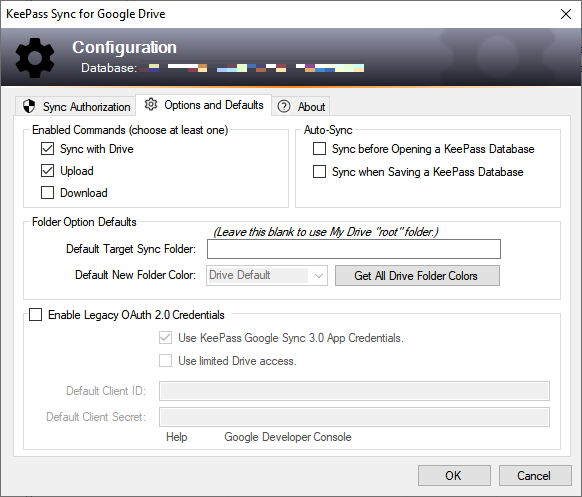
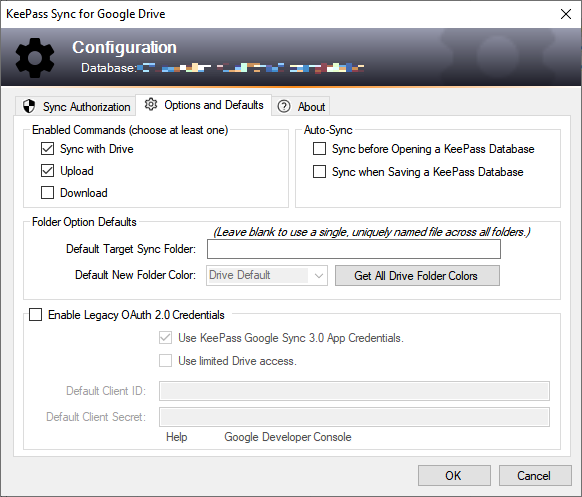
Updates for 4.0.3-beta

Changed region(s): [[0.433, 0.4527, 0.9278, 0.4829], [0.2165, 0.1207, 0.6495, 0.1509]]

diff --git a/docs/usage/target-folder.md b/docs/usage/target-folder.md
@@ -1,0 +1,90 @@
+---
+layout: page
+title: Target Folder
+---
+
+{:refdef: style="text-align: center;"}
+![Auto Sync Config](../assets/img/sync-folder.png)
+{: refdef}
+
+Sync your database with a file in a specific Drive folder.
+
+## What Happens
+* Specify a folder of your choice to contain the Drive file to sync with. 
+The folder may be [nested](#specifying-subfolders) in any other folder.
+* Or don't specify a Target Folder; if you leave this blank, the plugin
+looks for a *single* Drive file, among all folders, with the same name as
+the database.
+* Specifying a Target Folder allows you to maintain multiple copies of the
+database file in other Drive folders. If not specified, the plugin will
+expect to find only one Drive file with the same name as the database among
+all of your Drive folders.
+* If the specified folder does not yet exist, the plugin creates it for you.
+* Be aware of certain Drive [pitfalls](#target-folder-names-must-be-unique).
+
+## How it Works
+* Click [**Configuration**](../install/config#configuration-window) on the
+plugin menu to open the dialog and select the **Sync Authorization** tab.
+* Clear the **Target Sync Folder** text box to sync as in Google Sync 3.0;
+that is, with one copy of the database file, in any folder, across all your
+Drive folders.
+* Enter a Drive folder name in **Target Sync Folder** to sync the database
+to that folder.
+* To specify the My Drive folder, or a nested folder, enter the folder
+using the [file separator syntax](#specifying-subfolders).
+* If a specified folder or any of its "parent" folder(s) do not exist, the
+plugin will create them as part of the sync operation.
+* If the plugin detects any ambiguity in the Target Folder (e.g., multiple
+folders with the same name, or multiple copies of the database file
+in the Target Folder), the operation is cancelled an a error message is 
+shown.
+* Similarly, if no Target Folder is specified, but multiple copies of the
+file exist anywhere in Drive, the operation is cancelled an an error message
+is shown.
+* To use a specific Target Folder in future KeePass databases, enter the
+folder in the **Default Target Sync Folder** text box on the
+[**Options and Defaults**](../install/config#options-and-defaults) tab of the
+Configuration dialog.
+
+## Target Folder Names Must be Unique
+One of the odd "features" of Google Drive is that multiple objects with
+the same name can exist within a single folder, including the special
+My Drive folder.  Therefore, the Target Folder you specify must have a 
+unique ["path"](#specifying-subfolders) in your Drive account, or the
+plugin cannot determine which folder or file to sync with.
+
+If you target a top-level folder named "KeePass", but two separate folders
+with that name are accessible, the plugin can't select the correct folder
+on its own, and an error occurs when you sync. Similarly, if the Target Folder
+contains two or more copies of the database file (with the same name), the
+plugin will refuse to sync.
+
+## Specifying Subfolders
+The Target Folder may reside in any other folder, not just the My Drive
+top-level folder.  To specify a subfolder as a Target Folder, use the 
+common "file separator" syntax of traditional file systems.  The file
+separator can be either '/' or '\\'.  For example:
+
+* **KeePass/social/clubs** specifies a folder named "KeePass" at the
+top-level, containing a subfolder named "social", which itself contains
+a subfolder named "clubs".  The Target Folder is "clubs".
+* **KeePass\social\clubs** specifies the same Target Folder but using
+an alternate separator character.
+
+## Specifying My Drive
+To use the top-level **My Drive** folder as the Target Folder, enter a single
+separator character in the text box, e.g., **/**. Note that this is not
+the same as leaving **Target Sync Folder** empty!
+
+## Special Cases
+Folders names in Drive may be composed with any available character, including
+the characters used by the plugin to denote nested folders.  For example, 
+suppose you want to specify a folder named **My/odd\folder** (yes, this is
+allowed in Drive!).  Note that this isn't a path of nested folders, this is
+a folder named with separator characters. To specify this as the Target Folder,
+you must use the '\\' character to "escape" the embedded separator characters,
+so that the plugin does not confuse them with actual separators.  In this case,
+the Target Folder specification would be **My\\/odd\\\\folder**.  The '\\'
+character must precede each embedded separator character in a folder name.
+
+

diff --git a/docs/usage/x-40.md b/docs/usage/x-40.md
@@ -10,7 +10,7 @@ workarounds.  These include functionality the developers find
 As always your feedback is appreciated.
 
 * [Limited Access](#limited-drive-access)
-* [Designated Folder Options](#designated-folder-and-folder-colors)
+* [Designated Folder Options](#folder-colors)
 
 ---
 
@@ -95,29 +95,14 @@ feature, or any feature involving the "legacy" authorization methods.
 
 ---
 
-### Designated Folder and Folder Colors
-This feature allows you to specify a particular top-level folder to
-contain the Drive files synchronized by the plugin, providing a
-degree of tidiness in Drive archives.  The plugin
-will only synchronize the current database with files contained in
-this Drive folder.  The setting is found in the **Sync Authorization**
-tab of the Configuration window.
-
-{:refdef: style="text-align: center;"}
-![Sync Folder set to "KeePass Sync"](../assets/img/sync-folder.png)
-{: refdef}
-
-If no folder is specified, the plugin reverts to the traditional
-behavior of using the Drive "root" to access files.  You may also set a 
-"default" folder name, to be used by new database sync configurations,
-in the **Options and Defaults** tab, shown below.
-
+### Folder Colors
 {:refdef: style="text-align: center;"}
 ![Sync Folder default options and color](../assets/img/sync-folder-defaults.png)
 {: refdef}
 
-The Drive API also allows clients to create folders with one of 
-several colors, as viewed in the Drive web interface.  The
+The Drive API allows clients to create folders with one of 
+several colors, as viewed in the Drive web interface.  For users of the
+[Target Folder](target-folder) feature, the
 plugin offers this option as well.  On the "**Options and Defaults**"
 tab, you can specify the color of your choice for folders created
 by the plugin.  Existing folder colors can only be directly changed in

diff --git a/docs/install/config.md b/docs/install/config.md
@@ -178,10 +178,10 @@ way.
 The **Use limited Drive access** check box determines the
 [permission level you allow the plugin when accessing Drive](../usage/x-40#limited-drive-access).
 
-In the **Google Drive Options** group is a [new feature](../usage/x-40#designated-folder-and-folder-colors), **Target Sync Folder**,
-to specify a top-level folder in Drive where the plugin synchronizes
-your database files.  Leave this blank for the traditional top-level
-location of your synchronized databases.
+In the **Google Drive Options** group is the [**Target Sync Folder**](../usage/target-folder)
+feature, with which to specify a folder in Drive where the plugin
+synchronizes your database files.  Leave this blank for the traditional
+Google Sync 3.0 "one sync file across all of Drive" semantics.
 
 {:refdef: style="text-align: center;"}
 ![Other Options](../assets/img/gdrive-opts.png)
